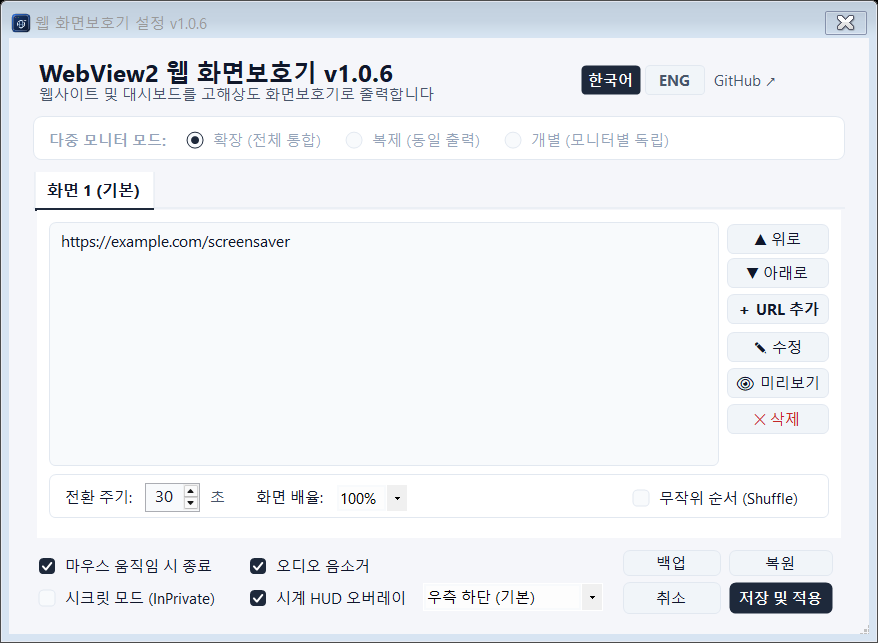
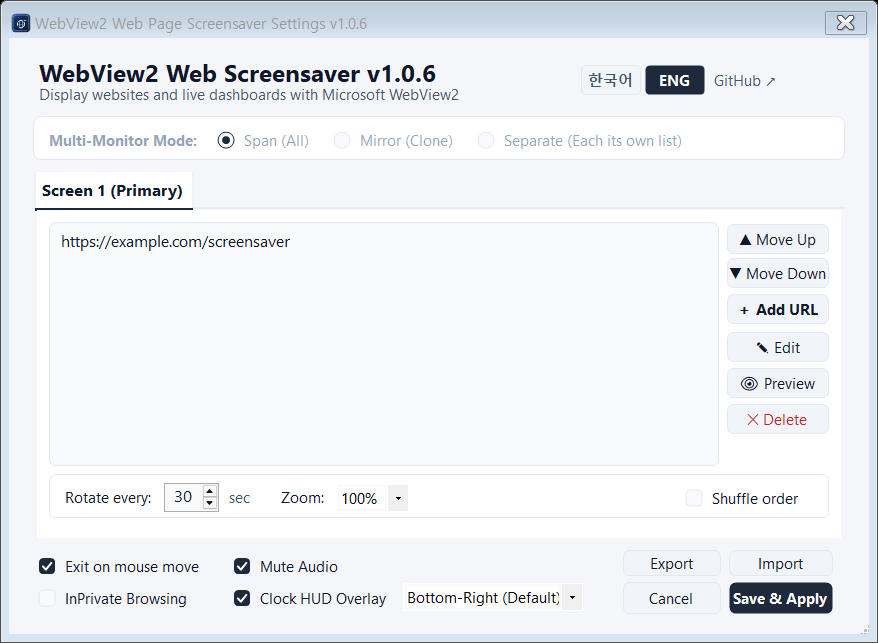
docs(assets): GitHub 공개 미리보기를 영문 버전으로 전환 및 업데이트 뱃지 시연 에셋 추가

diff --git a/AssetScreenshotGenerator.cs b/AssetScreenshotGenerator.cs
@@ -35,12 +35,12 @@ namespace Web_Page_Screensaver
                 form.TopMost = true;
                 form.Show();
 
-                // 1. 개인 설정 대신 안전한 예시 URL 주입 및 UI 정리
+                // 1. 개인 설정 대신 안전한 예시 URL 주입 및 영문(기본) 설정
                 form.PrepareForScreenshot("https://example.com/screensaver");
                 Application.DoEvents();
                 Thread.Sleep(200);
 
-                // 2. 다크 모드 테마 캡처
+                // 2. 영문(English) 다크 모드 테마 캡처 (GitHub 기본 표시용)
                 ThemeManager.IsLightTheme = false;
                 form.ApplyTheme(false);
                 form.Refresh();
@@ -48,10 +48,10 @@ namespace Web_Page_Screensaver
                 Thread.Sleep(200);
 
                 CaptureFormWindow(form, Path.Combine(outputDirectory, "screenshot_dark.png"));
-                // screenshot.png는 기본 다크 모드 스크린샷과 동일
                 CaptureFormWindow(form, Path.Combine(outputDirectory, "screenshot.png"));
+                CaptureFormWindow(form, Path.Combine(outputDirectory, "screenshot_en.png"));
 
-                // 3. 라이트 모드 테마 캡처
+                // 3. 영문(English) 라이트 모드 테마 캡처
                 ThemeManager.IsLightTheme = true;
                 form.ApplyTheme(true);
                 form.Refresh();
@@ -60,15 +60,33 @@ namespace Web_Page_Screensaver
 
                 CaptureFormWindow(form, Path.Combine(outputDirectory, "screenshot_light.png"));
 
-                // 4. 영문 모드 캡처 (다국어 UI 문구 간섭 및 겹침 자가 검증용)
-                form.ApplyLanguage("en");
+                // 4. 영문 업데이트 알림 뱃지(Update Badge) 시연 캡처
+                ThemeManager.IsLightTheme = false;
+                form.ApplyTheme(false);
+                form.SetUpdateNoticeForDemo("1.0.7");
+                form.Refresh();
+                Application.DoEvents();
+                Thread.Sleep(200);
+
+                CaptureFormWindow(form, Path.Combine(outputDirectory, "screenshot_update_badge.png"));
+
+                // 5. 한국어(Korean) 모드 캡처
+                form.ApplyLanguage("ko");
                 ThemeManager.IsLightTheme = false;
                 form.ApplyTheme(false);
                 form.Refresh();
                 Application.DoEvents();
                 Thread.Sleep(200);
 
-                CaptureFormWindow(form, Path.Combine(outputDirectory, "screenshot_en.png"));
+                CaptureFormWindow(form, Path.Combine(outputDirectory, "screenshot_ko_dark.png"));
+
+                ThemeManager.IsLightTheme = true;
+                form.ApplyTheme(true);
+                form.Refresh();
+                Application.DoEvents();
+                Thread.Sleep(200);
+
+                CaptureFormWindow(form, Path.Combine(outputDirectory, "screenshot_ko_light.png"));
 
                 // 정리
                 form.DialogResult = DialogResult.Cancel;

diff --git a/PreferencesForm.cs b/PreferencesForm.cs
@@ -332,7 +332,18 @@ namespace Web_Page_Screensaver
             cmbClockPosition.Enabled = true;
             cmbClockPosition.SelectedIndex = 0;
             btnUpdateNotice.Visible = false;
-            ApplyLanguage("ko");
+            ApplyLanguage("en");
+        }
+
+        /// <summary>
+        /// 스크린샷 및 시연용으로 새 버전 업데이트 알림 배지를 활성화합니다.
+        /// </summary>
+        public void SetUpdateNoticeForDemo(string version = "1.0.7", string url = "https://github.com/muro-dot/Webview2_WebPage_Screensaver/releases")
+        {
+            btnUpdateNotice.Text = $"🚀 New: v{version}";
+            btnUpdateNotice.Tag = url;
+            btnUpdateNotice.Visible = true;
+            btnUpdateNotice.BringToFront();
         }
 
         private void LoadValuesForTab(int screenNum)

diff --git a/README.md b/README.md
@@ -43,6 +43,12 @@ A Fork of the old archived project [ZenProjects/Chromium-Web-Page-Screensaver](h
 - Right click the `.scr` file, select `Install` to install, or `Test` to test it out
 - Use the `Settings...` button to configure your custom URLs.
 
+### Preview (Dark Mode / Light Mode)
+
+| Dark Mode | Light Mode |
+| :---: | :---: |
+| <img width="420" alt="Dark Mode" src="assets/screenshot_dark.png" /> | <img width="420" alt="Light Mode" src="assets/screenshot_light.png" /> |
+
 # WebView2 웹 페이지 화면 보호기 (Web Page Screensaver)
 
 이 프로젝트는 오래된 [ZenProjects/Chromium-Web-Page-Screensaver](https://github.com/ZenProjects/Chromium-Web-Page-Screensaver) 프로젝트를 포크하여 개선한 버전입니다. 기존의 [CefSharp WinForms](https://github.com/cefsharp/CefSharp) 대신 **Microsoft Edge WebView2 (Chromium)** 엔진을 사용하여 웹 페이지를 화면 보호기로 부드럽고 선명하게 출력합니다.
